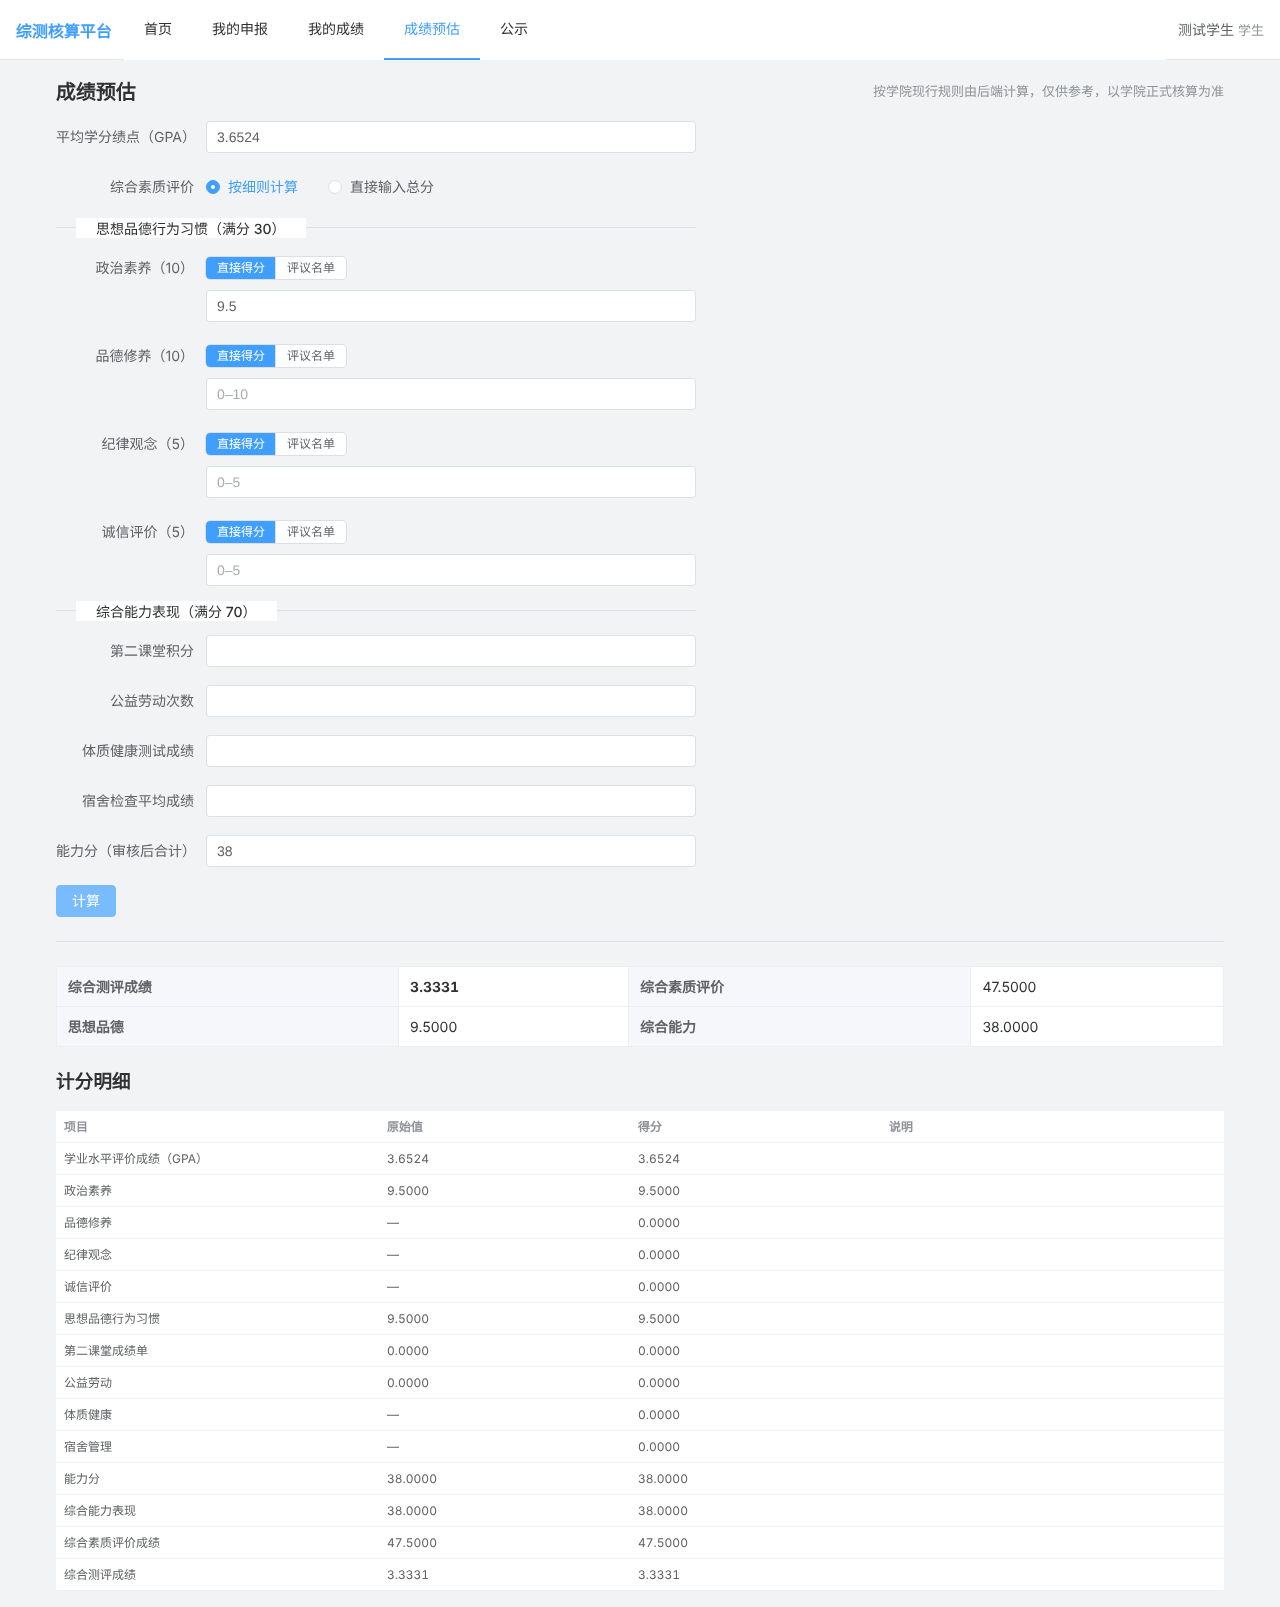
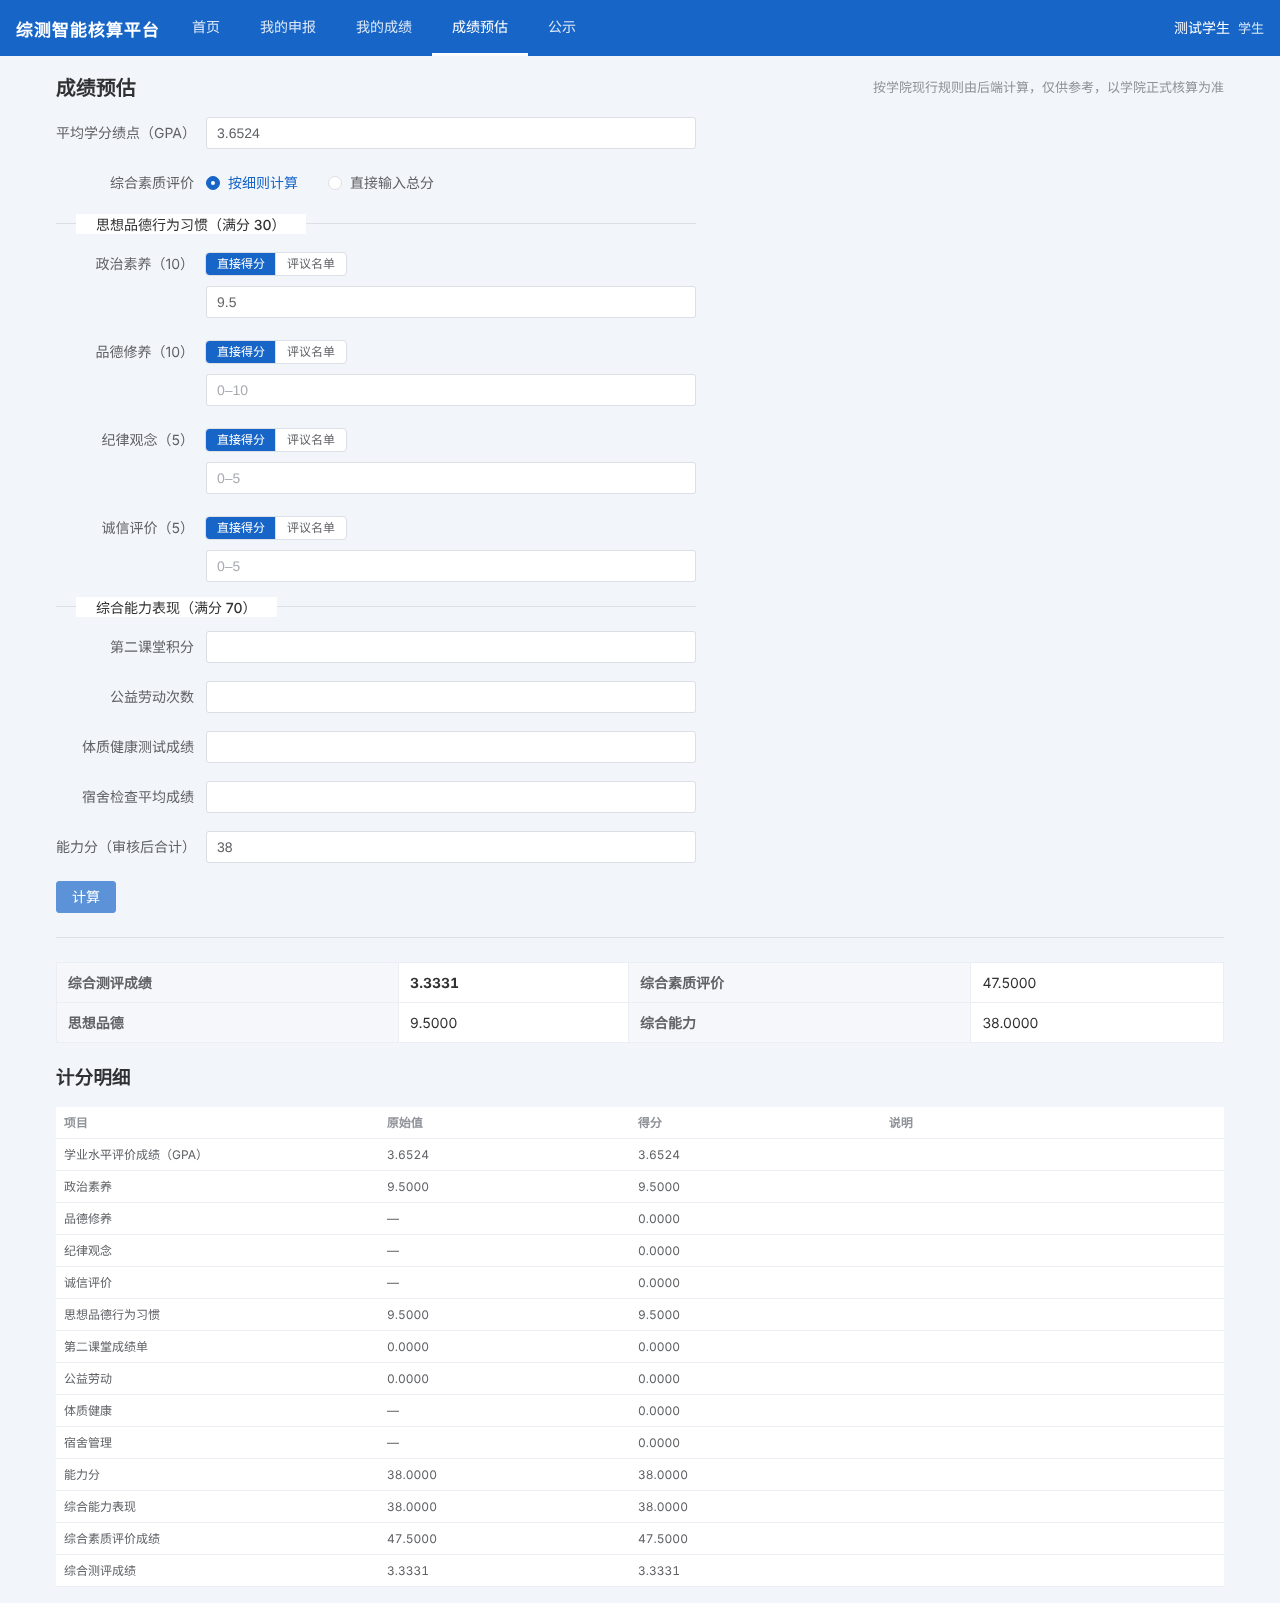
style(web): 参考智慧济大登录页的配色与版式改版（只借鉴风格）
- 主色改为学校门户常用的蓝 #1665C7，页面底色浅灰蓝；顶栏改为蓝底白字
- 登录页：晴空渐变背景、居中白色登录框、方角输入框、圆角主按钮、蓝色提示文字；不使用校徽和照片，不写“统一身份认证”，平台名称与账号体系不变
- 更新中期检查截图（合成数据）

Claude-Session: https://claude.ai/code/session_01SW6YjiobSpvi1xhHMBDyMG

diff --git a/frontend/src/views/LoginView.vue b/frontend/src/views/LoginView.vue
@@ -32,30 +32,34 @@ async function submit(): Promise<void> {
 </script>
 
 <template>
-  <div class="login-wrap">
-    <el-card class="login-card" shadow="never">
+  <div class="login-page">
+    <header class="login-title">
       <h1>综测智能核算平台</h1>
-      <p class="muted">济南大学信息科学与工程学院 · 综合测评</p>
-      <el-form label-position="top" @submit.prevent="submit">
-        <el-form-item label="学号 / 账号">
-          <el-input
-            v-model.trim="form.username"
-            autocomplete="username"
-            placeholder="请输入学号"
-            data-testid="login-username"
-          />
-        </el-form-item>
-        <el-form-item label="密码">
-          <el-input
-            v-model="form.password"
-            type="password"
-            show-password
-            autocomplete="current-password"
-            placeholder="请输入密码"
-            data-testid="login-password"
-          />
-        </el-form-item>
-        <el-alert v-if="error" :title="error" type="error" :closable="false" show-icon />
+      <p>信息科学与工程学院 · 综合测评申报与审核</p>
+    </header>
+
+    <section class="login-box" aria-labelledby="login-heading">
+      <h2 id="login-heading" class="login-heading">账号登录</h2>
+      <form class="login-form" @submit.prevent="submit">
+        <el-input
+          v-model.trim="form.username"
+          autocomplete="username"
+          placeholder="学号 / 账号"
+          aria-label="学号或账号"
+          size="large"
+          data-testid="login-username"
+        />
+        <el-input
+          v-model="form.password"
+          type="password"
+          show-password
+          autocomplete="current-password"
+          placeholder="密码"
+          aria-label="密码"
+          size="large"
+          data-testid="login-password"
+        />
+        <p v-if="error" class="login-error" role="alert">{{ error }}</p>
         <el-button
           type="primary"
           native-type="submit"
@@ -65,32 +69,129 @@ async function submit(): Promise<void> {
         >
           登录
         </el-button>
-      </el-form>
-    </el-card>
+      </form>
+      <div class="login-notes">
+        <p class="note">
+          学生账号为学号，初始密码由学院统一发放，首次登录后需要修改密码。忘记密码请联系班级审核员或学院管理员重置。
+        </p>
+        <p class="note note-muted">同一账号连续输错多次会暂时停止登录，请稍候再试。</p>
+      </div>
+    </section>
+
+    <footer class="login-footer">2026 年大学生创新训练计划项目 · 综测智能核算平台</footer>
   </div>
 </template>
 
 <style scoped>
-.login-wrap {
+.login-page {
   min-height: 100vh;
   display: flex;
+  flex-direction: column;
   align-items: center;
-  justify-content: center;
-  padding: 16px;
+  padding: 56px 16px 24px;
+  /* 晴空的蓝到浅蓝，两团淡云；不用照片和校徽 */
+  background:
+    radial-gradient(ellipse 38% 16% at 18% 22%, rgb(255 255 255 / 55%), transparent 70%),
+    radial-gradient(ellipse 30% 12% at 82% 34%, rgb(255 255 255 / 45%), transparent 70%),
+    linear-gradient(180deg, #3f8ddb 0%, #8ec0ef 42%, #dceaf8 78%, #eef4fa 100%);
 }
 
-.login-card {
+.login-title {
+  text-align: center;
+  color: #fff;
+  margin-bottom: 24px;
+  text-shadow: 0 1px 2px rgb(0 40 100 / 25%);
+}
+
+.login-title h1 {
+  margin: 0;
+  font-size: 28px;
+  font-weight: 600;
+  letter-spacing: 2px;
+}
+
+.login-title p {
+  margin: 6px 0 0;
+  font-size: 14px;
+  opacity: 0.92;
+}
+
+.login-box {
   width: 100%;
-  max-width: 380px;
+  max-width: 420px;
+  background: rgb(255 255 255 / 94%);
+  border: 1px solid #dedede;
 }
 
-h1 {
-  margin: 0 0 4px;
-  font-size: 22px;
+.login-heading {
+  margin: 0;
+  height: 48px;
+  line-height: 48px;
+  text-align: center;
+  font-size: 16px;
+  font-weight: 400;
+  color: #333;
+  border-bottom: 1px solid #dedede;
+}
+
+.login-form {
+  display: flex;
+  flex-direction: column;
+  gap: 16px;
+  padding: 24px 28px 8px;
+  --el-input-border-radius: 0;
+  --el-input-border-color: #dedede;
+}
+
+.login-error {
+  margin: -4px 0 0;
+  color: var(--el-color-danger);
+  font-size: 13px;
 }
 
 .login-button {
   width: 100%;
-  margin-top: 16px;
+  height: 40px;
+  border-radius: 6px;
+  font-size: 16px;
+  letter-spacing: 2px;
+}
+
+.login-notes {
+  padding: 8px 28px 20px;
+}
+
+.note {
+  margin: 8px 0 0;
+  font-size: 12px;
+  line-height: 1.7;
+  color: var(--el-color-primary);
+}
+
+.note-muted {
+  color: #888;
+}
+
+.login-footer {
+  margin-top: auto;
+  padding-top: 32px;
+  font-size: 12px;
+  color: #6b7f96;
+}
+
+@media (max-width: 600px) {
+  .login-page {
+    padding-top: 40px;
+  }
+
+  .login-title h1 {
+    font-size: 24px;
+  }
+
+  .login-form,
+  .login-notes {
+    padding-left: 18px;
+    padding-right: 18px;
+  }
 }
 </style>

diff --git a/frontend/src/layouts/AppLayout.vue b/frontend/src/layouts/AppLayout.vue
@@ -32,12 +32,15 @@ async function onCommand(command: string): Promise<void> {
 <template>
   <el-container class="layout">
     <el-header class="layout-header">
-      <RouterLink to="/" class="brand">综测核算平台</RouterLink>
+      <RouterLink to="/" class="brand">综测智能核算平台</RouterLink>
       <el-menu
         mode="horizontal"
         :default-active="String(route.name ?? '')"
         class="layout-menu"
         :ellipsis="true"
+        background-color="#1665c7"
+        text-color="#dbe7f7"
+        active-text-color="#ffffff"
       >
         <el-menu-item
           v-for="item in menu"
@@ -72,14 +75,17 @@ async function onCommand(command: string): Promise<void> {
   display: flex;
   align-items: center;
   gap: 12px;
-  background: var(--el-bg-color);
-  border-bottom: 1px solid var(--el-border-color-light);
+  height: 56px;
+  background: var(--el-color-primary);
   padding: 0 16px;
+  color: #fff;
 }
 
 .brand {
+  font-size: 17px;
   font-weight: 600;
-  color: var(--el-color-primary);
+  letter-spacing: 1px;
+  color: #fff;
   text-decoration: none;
   white-space: nowrap;
 }
@@ -87,12 +93,24 @@ async function onCommand(command: string): Promise<void> {
 .layout-menu {
   flex: 1;
   min-width: 0;
+  height: 56px;
   border-bottom: none;
+  --el-menu-hover-bg-color: #12519f;
+}
+
+.layout-menu :deep(.el-menu-item.is-active) {
+  border-bottom: 3px solid #fff;
 }
 
 .user {
   cursor: pointer;
   white-space: nowrap;
+  color: #fff;
+}
+
+.user-role {
+  color: #dbe7f7;
+  margin-left: 4px;
 }
 
 .layout-main {

diff --git a/frontend/src/styles.css b/frontend/src/styles.css
@@ -1,5 +1,15 @@
 :root {
   --app-max-width: 1200px;
+  /* 主色取自学校门户常用的蓝（#1665C7），其余色阶按 Element Plus 的规则与白、黑混合 */
+  --el-color-primary: #1665c7;
+  --el-color-primary-light-3: #5c93d8;
+  --el-color-primary-light-5: #8bb2e3;
+  --el-color-primary-light-7: #b9d1ee;
+  --el-color-primary-light-8: #d0e0f4;
+  --el-color-primary-light-9: #e8f0f9;
+  --el-color-primary-dark-2: #12519f;
+  --el-bg-color-page: #f2f5f9;
+  --el-border-radius-base: 3px;
 }
 
 * {
@@ -12,8 +22,8 @@ body {
   background: var(--el-bg-color-page);
   color: var(--el-text-color-primary);
   font-family:
-    -apple-system, BlinkMacSystemFont, 'PingFang SC', 'Hiragino Sans GB', 'Microsoft YaHei',
-    sans-serif;
+    -apple-system, BlinkMacSystemFont, 'PingFang SC', 'Microsoft YaHei', 'Hiragino Sans GB',
+    Helvetica, Arial, sans-serif;
 }
 
 .page {
